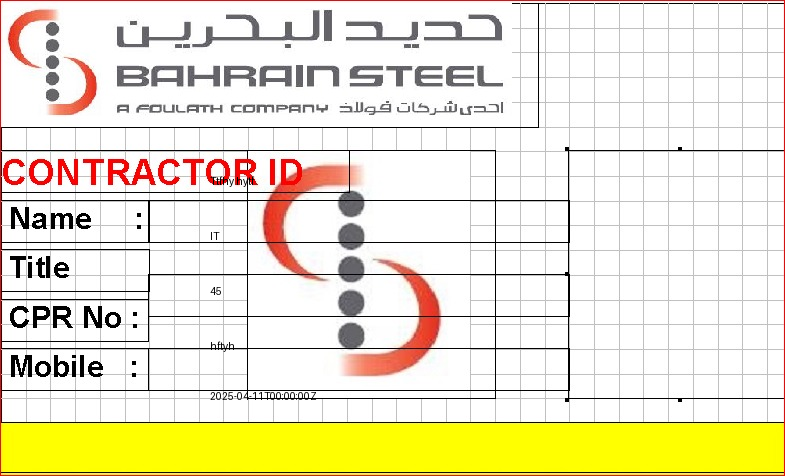
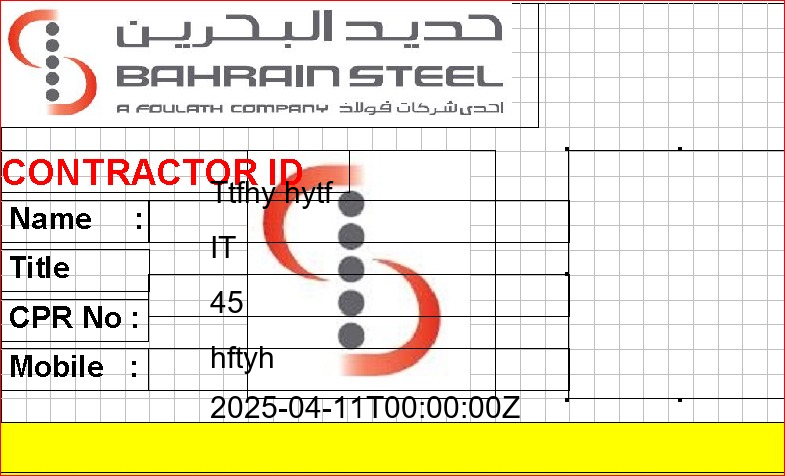
final comit for app

diff --git a/app1/views.py b/app1/views.py
@@ -266,7 +266,7 @@ def generate_selected_id_cards(request):
 
             # Load Font (Fallback if missing)
             try:
-                font = ImageFont.truetype(FONT_PATH, 20)
+                font = ImageFont.truetype(FONT_PATH, 30)
             except OSError:
                 print("⚠ Font not found, using default font.")
                 font = ImageFont.load_default()
